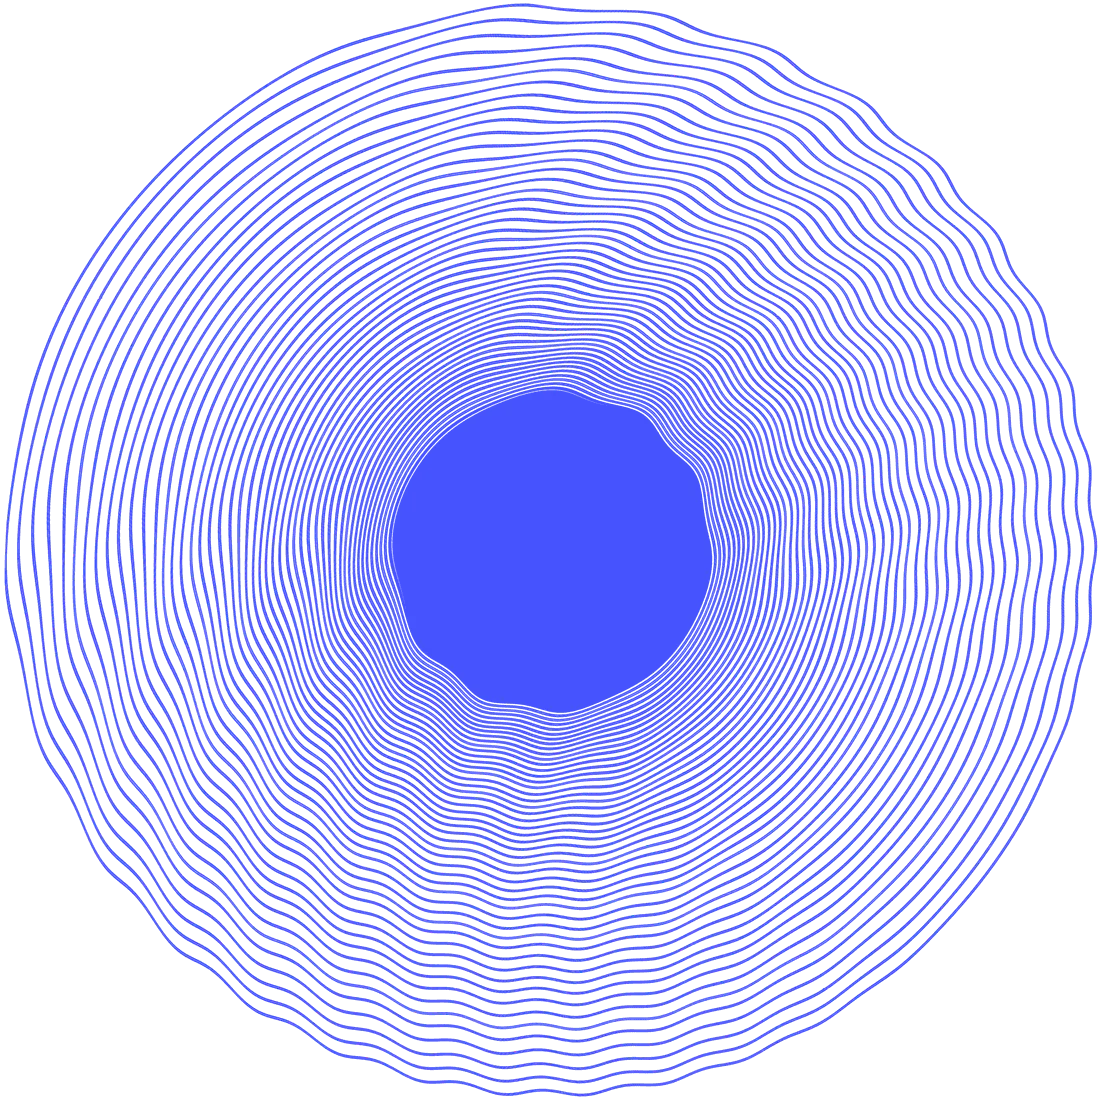
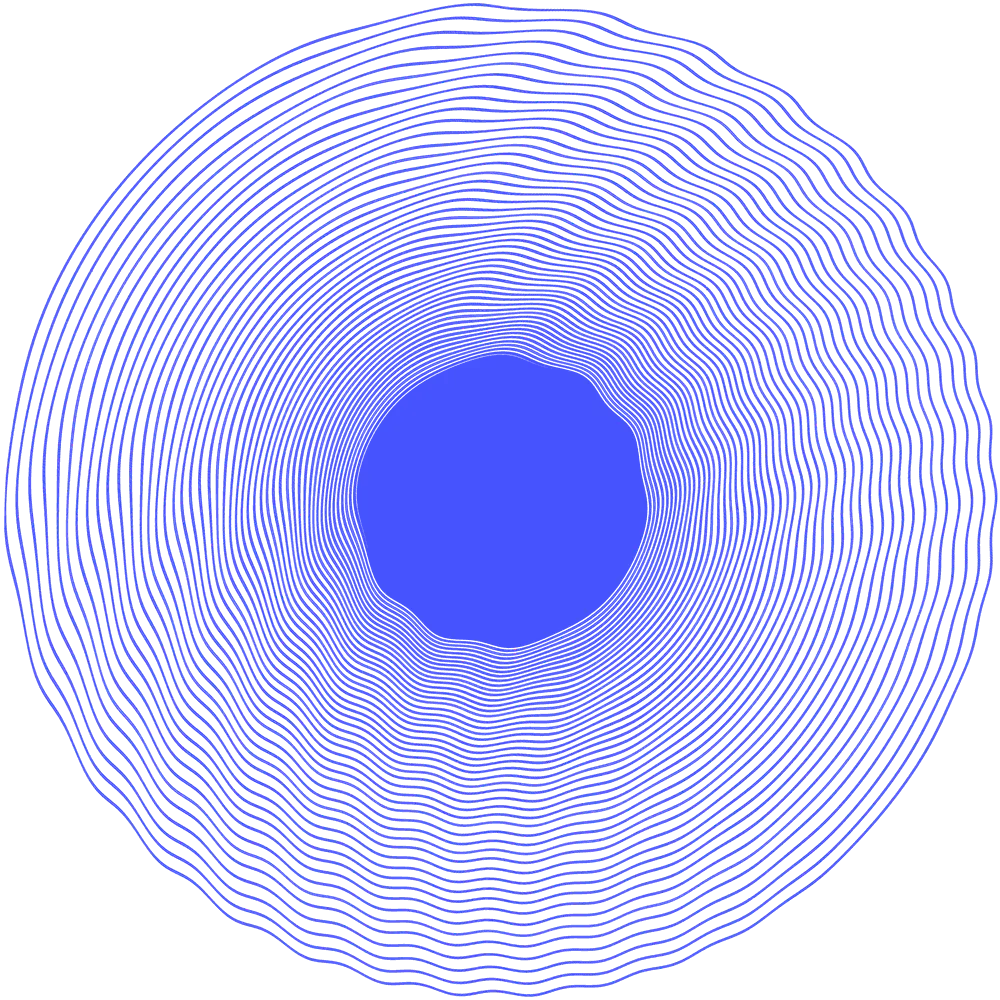
perf(home): no forced reflow in the scene loop, lighter phone image
All layout reads happen before the style writes of each frame, the step pulse restarts without
reading layout, and the phone disc image goes from 380 to 296 KB.

diff --git a/components/home/scene.ts b/components/home/scene.ts
@@ -383,7 +383,10 @@ export function startHomeScene(root: HTMLElement, isReduced: () => boolean): Sce
     const dt = Math.min((now - t0) / 1000, 0.05);
     t0 = now;
     clock += dt;
+    // Every layout read first, every style write after: reading a rect once styles have
+    // changed forces the browser to recompute the layout ("forced reflow") on every frame.
     const st = targets();
+    const sr = steps.getBoundingClientRect();
     const k = reduce ? 1 : 1 - Math.pow(0.0009, dt); // frame-rate independent smoothing
     S.ax = lerp(S.ax, T.ax, k);
     S.ay = lerp(S.ay, T.ay, k);
@@ -461,7 +464,6 @@ export function startHomeScene(root: HTMLElement, isReduced: () => boolean): Sce
     //  - "arrived": the section covers most of the screen
     //  - lit as soon as the scroll really slows down (< 2 px/frame for 0.12 s) or after 0.8 s
     //  - switched off only once clearly left (hysteresis: no flicker at the edges)
-    const sr = steps.getBoundingClientRect();
     const arrived = sr.top < vh * 0.2 && sr.bottom > vh * 0.8;
     const gone = sr.top > vh * 0.5 || sr.bottom < vh * 0.5;
     if (beamOn) {
@@ -487,9 +489,10 @@ export function startHomeScene(root: HTMLElement, isReduced: () => boolean): Sce
     if (si !== stepIdx) {
       stepIdx = si;
       // the beam pulses at each new step
+      // Restarts the pulse animation: remove the class now, add it back on the next frame
+      // (no forced reflow).
       steps.classList.remove("is-pulse");
-      void steps.offsetWidth;
-      steps.classList.add("is-pulse");
+      requestAnimationFrame(() => steps.classList.add("is-pulse"));
       clearTimeout(pulseT);
       pulseT = window.setTimeout(() => steps.classList.remove("is-pulse"), 700);
       stepTexts.forEach((el, q) => el.classList.toggle("is-active", q === si));
